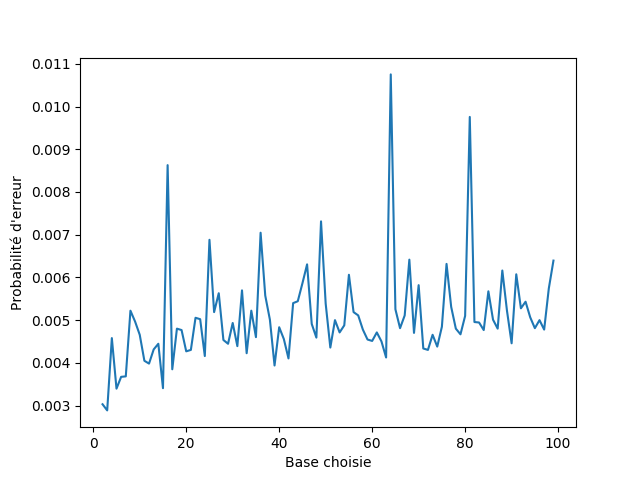
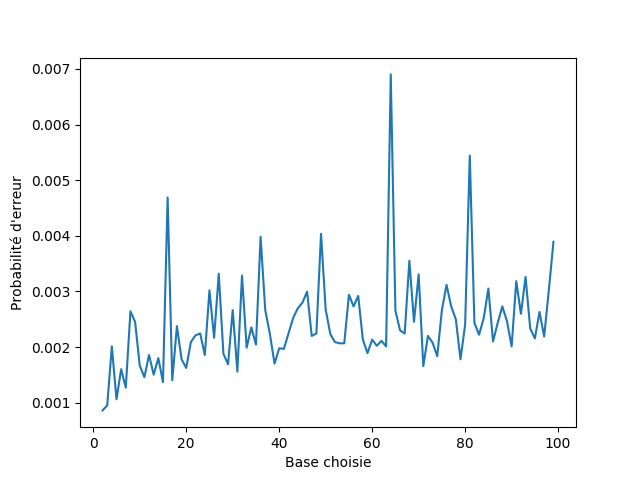
ex3 corrigé (n>>1)

diff --git a/premiers/ex4.py b/premiers/ex4.py
@@ -1,2 +1,90 @@
-def test_miller_rabin(N):
+import math
+import random
+
+
+def my_expo_mod(g,n,N):
+    """n en représentation binaire (n[0] est le MSB)
+    retourne g**n % N
+    polynomial"""
+    h = 1
+    for digit in n:
+        h = h * h % N
+        if digit:
+            h = h * g % N
+    return h
+
+
+def test_miller_rabin(n, h, m, T):
+    """n = 1 + 2**h * m
+    m sous la forme de sa représentatiton binaire
+    T nombre d'itération
+    retourne possible premier"""
+    for i in range(1,T):
+        a = random.randint()#inversible modulo n
+        b = my_expo_mod(a,m,n)
+        if b!=1 and b!=n-1:
+            for j in range(1,h-1):
+                if b!=n-1 and b*2%n==1:
+                    return 0
+                b*=b
+            if b != n-1:
+                return 0
+    return 1
+
+def prime_test(N):
+    """exponentiel"""
+    racine = int(math.sqrt(N))
+    for i in range(2, racine + 1):
+        if N % i == 0:
+            return False
     return True
+
+
+#221 = 13*17
+#221 est un pseudo premier en base 21,34,38,...
+assert test_miller_rabin(221, [1, 1, 0, 1, 1, 1, 0, 1], 21)
+assert test_fermat(221, [1, 1, 0, 1, 1, 1, 0, 1], 34)
+assert test_fermat(221, [1, 1, 0, 1, 1, 1, 0, 1], 38)
+assert not test_fermat(221, [1, 1, 0, 1, 1, 1, 0, 1], 37)
+
+#2, 3 et 19 sont premiers
+for _i in range(2, 19):
+    assert test_fermat(2, [1, 0], _i)
+    assert test_fermat(3, [1, 1], _i)
+    assert test_fermat(19, [1, 0, 0, 1, 1], _i)
+
+#561 = 3 * 11 * 17 est un nombre de carmichael
+for _i in range(3, 561):
+    assert test_fermat(561, [1, 0, 0, 0, 1, 1, 0, 0, 0, 1], _i)
+
+
+def error_proba(test, base):
+    return sum((test_fermat(val, binary, base) for val, binary in test)) / len(test)
+
+
+def error_proba_detailed(test, base):
+    err = 0
+    listErr = [0] * len(test)
+    for i in range(len(test)):
+        err += test_fermat(test[i][0], test[i][1], base)
+        listErr[i] = err / (i + 1)
+    return listErr
+
+
+
+def main():
+    import matplotlib.pyplot as plt
+    composed = [(i, getBinary(i)) for i in range(10 ** 5) if not prime_test(i)]
+    print("nombres composés considérés :", len(composed))
+    """for base in range(2,10):
+        l = error_proba_detailed(composed, base)
+        if max(l)<.1:
+            print(base)"""
+    #plt.figure()
+    plt.plot(range(2, 100), [error_proba(composed, base) for base in range(2, 100)])
+    plt.xlabel("Base choisie")
+    plt.ylabel("Probabilité d'erreur")
+    plt.show()
+
+
+main()

diff --git a/premiers/ex3.py b/premiers/ex3.py
@@ -62,7 +62,7 @@ def getBinary(n):
     digits=[]
     while n:
         digits.append(n&1)
-        n>>=2
+        n>>=1
     digits.reverse()
     return digits
     
